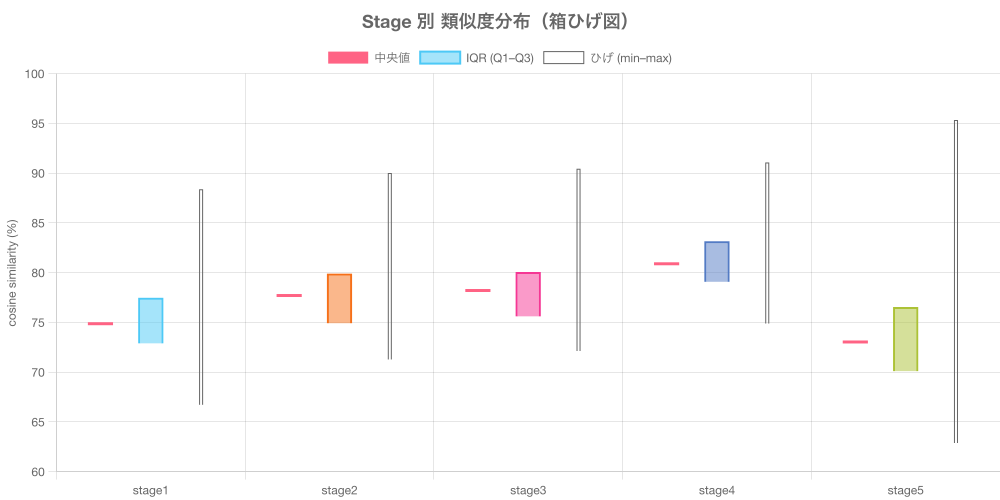
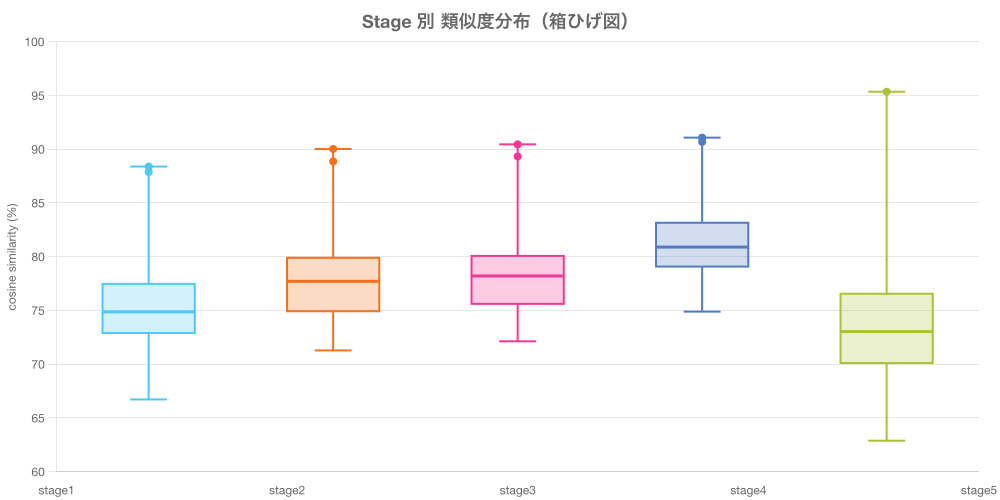
はこひげず

diff --git a/cli/careerMapRegenerateCharts.ts b/cli/careerMapRegenerateCharts.ts
@@ -142,7 +142,6 @@ async function generateBoxplot(stages: StageData[], outDir: string): Promise<str
 
   const chartCanvas = new ChartJSNodeCanvas({ width: 1000, height: 500, backgroundColour: 'white' })
 
-  const labels = stages.map((s) => s.stage)
   const statsArr = stages.map((s) => descriptiveStats(s.similarities))
 
   const allMin = Math.min(...statsArr.map((s) => s.min))
@@ -150,47 +149,105 @@ async function generateBoxplot(stages: StageData[], outDir: string): Promise<str
   const yMin = Math.floor(allMin / 5) * 5
   const yMax = Math.ceil(allMax / 5) * 5
 
+  // 箱ひげ図をカスタムプラグインで描画
+  // ダミーの scatter で x 軸のラベルだけ確保し、afterDatasetsDraw で箱ひげを描く
+  const boxplotPlugin = {
+    id: 'boxplotDrawer',
+    afterDatasetsDraw(chart: { ctx: CanvasRenderingContext2D; chartArea: { left: number; right: number; top: number; bottom: number }; scales: Record<string, { getPixelForValue: (v: number) => number }> }) {
+      const { ctx, chartArea, scales } = chart
+      const yScale = scales['y']
+      const count = stages.length
+      const totalWidth = chartArea.right - chartArea.left
+      const groupWidth = totalWidth / count
+      const boxWidth = groupWidth * 0.5
+
+      for (let i = 0; i < count; i++) {
+        const s = statsArr[i]
+        const centerX = chartArea.left + groupWidth * (i + 0.5)
+        const halfBox = boxWidth / 2
+
+        const yQ1 = yScale.getPixelForValue(s.q1)
+        const yQ3 = yScale.getPixelForValue(s.q3)
+        const yMedian = yScale.getPixelForValue(s.q2)
+        const yMinVal = yScale.getPixelForValue(s.min)
+        const yMaxVal = yScale.getPixelForValue(s.max)
+
+        const color = COLORS[i % COLORS.length]
+
+        // ひげ（min–Q1）
+        ctx.beginPath()
+        ctx.strokeStyle = color
+        ctx.lineWidth = 2
+        ctx.moveTo(centerX, yQ1)
+        ctx.lineTo(centerX, yMinVal)
+        ctx.stroke()
+        // min のキャップ
+        ctx.beginPath()
+        ctx.moveTo(centerX - halfBox * 0.4, yMinVal)
+        ctx.lineTo(centerX + halfBox * 0.4, yMinVal)
+        ctx.stroke()
+
+        // ひげ（Q3–max）
+        ctx.beginPath()
+        ctx.moveTo(centerX, yQ3)
+        ctx.lineTo(centerX, yMaxVal)
+        ctx.stroke()
+        // max のキャップ
+        ctx.beginPath()
+        ctx.moveTo(centerX - halfBox * 0.4, yMaxVal)
+        ctx.lineTo(centerX + halfBox * 0.4, yMaxVal)
+        ctx.stroke()
+
+        // 箱（IQR: Q1–Q3）
+        ctx.beginPath()
+        ctx.fillStyle = color + '40'
+        ctx.strokeStyle = color
+        ctx.lineWidth = 2
+        ctx.rect(centerX - halfBox, yQ3, boxWidth, yQ1 - yQ3)
+        ctx.fill()
+        ctx.stroke()
+
+        // 中央値線
+        ctx.beginPath()
+        ctx.strokeStyle = color
+        ctx.lineWidth = 3
+        ctx.moveTo(centerX - halfBox, yMedian)
+        ctx.lineTo(centerX + halfBox, yMedian)
+        ctx.stroke()
+
+        // 外れ値を点で描画
+        for (const o of s.outliers) {
+          const yO = yScale.getPixelForValue(o)
+          ctx.beginPath()
+          ctx.fillStyle = color
+          ctx.arc(centerX, yO, 4, 0, Math.PI * 2)
+          ctx.fill()
+        }
+      }
+    },
+  }
+
   const buf = await chartCanvas.renderToBuffer({
-    type: 'bar',
+    type: 'scatter',
     data: {
-      labels,
-      datasets: [
-        {
-          label: 'ひげ (min–max)',
-          data: statsArr.map((s) => [s.min, s.max] as [number, number]),
-          backgroundColor: 'rgba(0, 0, 0, 0)',
-          borderColor: 'rgba(100, 100, 100, 1)',
-          borderWidth: 1,
-          barPercentage: 0.08,
-          order: 3,
-        },
-        {
-          label: 'IQR (Q1–Q3)',
-          data: statsArr.map((s) => [s.q1, s.q3] as [number, number]),
-          backgroundColor: COLORS.map((c) => c + '80'),
-          borderColor: COLORS,
-          borderWidth: 2,
-          barPercentage: 0.5,
-          order: 2,
-        },
-        {
-          label: '中央値',
-          data: statsArr.map((s) => [s.q2 - 0.15, s.q2 + 0.15] as [number, number]),
-          backgroundColor: 'rgba(255, 99, 132, 1)',
-          borderColor: 'rgba(255, 99, 132, 1)',
-          borderWidth: 0,
-          barPercentage: 0.5,
-          order: 1,
-        },
-      ],
+      labels: stages.map((s) => s.stage),
+      datasets: [{
+        // ダミーデータ（プラグインが描画するので非表示）
+        data: stages.map((_, i) => ({ x: i, y: 0 })),
+        pointRadius: 0,
+      }],
     },
     options: {
-      indexAxis: 'x',
       plugins: {
         title: { display: true, text: 'Stage 別 類似度分布（箱ひげ図）', font: { size: 18 } },
-        legend: { display: true, position: 'top' },
+        legend: { display: false },
       },
       scales: {
+        x: {
+          type: 'category',
+          labels: stages.map((s) => s.stage),
+          grid: { display: false },
+        },
         y: {
           min: yMin,
           max: yMax,
@@ -198,7 +255,8 @@ async function generateBoxplot(stages: StageData[], outDir: string): Promise<str
         },
       },
     },
-  })
+    plugins: [boxplotPlugin],
+  } as never)
 
   const file = 'images/boxplot.png'
   fs.writeFileSync(path.join(outDir, file), buf)
